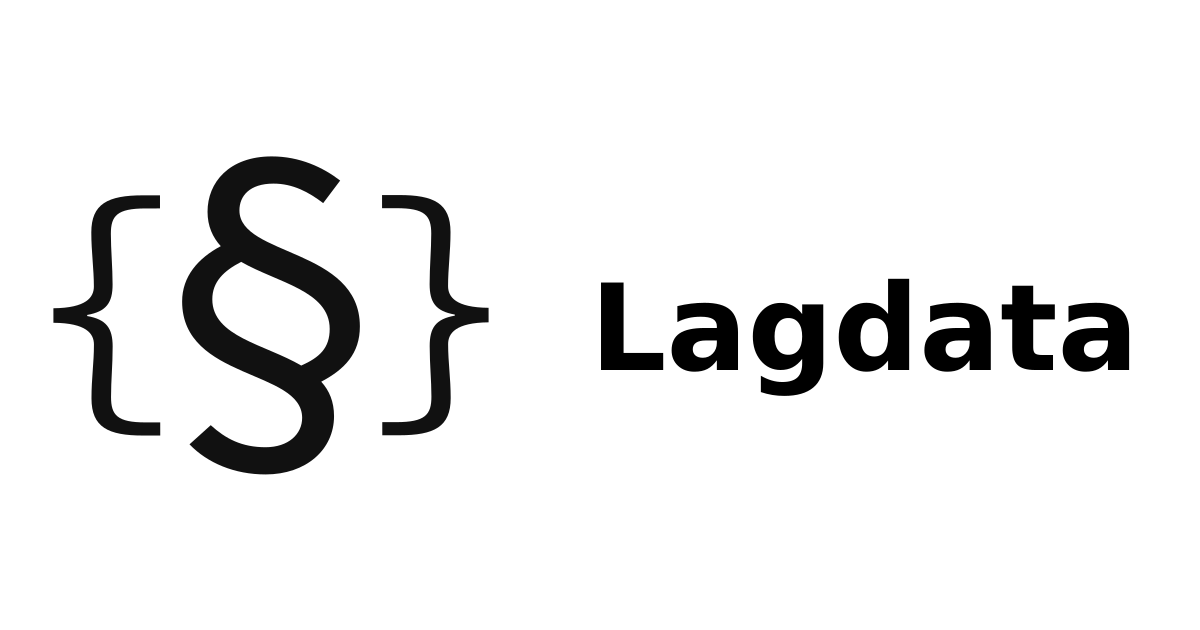
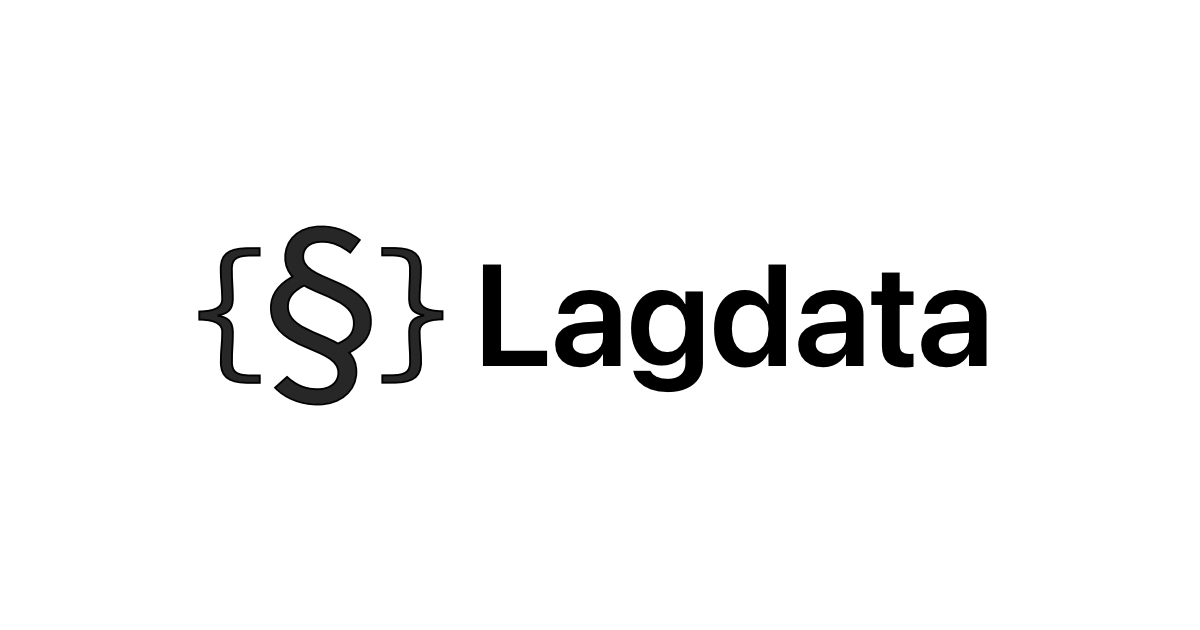
Optimise images

Changed region(s): [[0.0308, 0.2413, 0.9558, 0.754]]

diff --git a/content/posts/rinfo/index.en.md b/content/posts/rinfo/index.en.md
@@ -12,7 +12,7 @@ tags:
 
 It is a harsh principle, but it rests on a reasonable premise: anyone who wants to obey the law must also be able to find out what it says. [The Supreme Court of Sweden has put it clearly](https://www.domstol.se/globalassets/filer/domstol/hogstadomstolen/avgoranden/2019/b-6130-18.pdf): if people are expected to know what constitutes a criminal offence, they must also be able to access the rules.
 
-![The Swedish Code of Statutes in print at the Riksdag Library](thumbnail.jpeg "The Swedish Code of Statutes in print at the Riksdag Library (CC BY 4.0 Pierre Mesure)")
+![The Swedish Code of Statutes in print at the Riksdag Library](featured-sfs-riksdagsbiblioteket.webp "The Swedish Code of Statutes in print at the Riksdag Library (CC BY 4.0 Pierre Mesure)")
 
 Today, access to the law no longer means access to a printed statute book. Nearly all access is digital. On top of that, legal information is increasingly read and used by information systems, algorithms or AI-agents.
 
@@ -30,11 +30,11 @@ They often ask the same questions: Where can the information be found? Is there 
 
 Other countries have solved this many years ago. The French project [OpenFisca](https://openfisca.org/) turns large parts of the tax and benefits system into executable, open-source code. The project shows what becomes possible when rules are treated as shared digital infrastructure (*rules as code*), rather than as documents that every organisation must interpret from scratch.
 
-![Screenshot of the French government's “1 jeune 1 solution” website](openfisca.png "Thanks to rules as code, this website promises to show in five minutes whether you meet the eligibility criteria for 1,000 benefits, and to apply for some of them automatically ([link](https://mes-aides.1jeune1solution.beta.gouv.fr)).")
+![Screenshot of the French government's “1 jeune 1 solution” website](openfisca.webp "Thanks to rules as code, this website promises to show in five minutes whether you meet the eligibility criteria for 1,000 benefits, and to apply for some of them automatically ([link](https://mes-aides.1jeune1solution.beta.gouv.fr)).")
 
 Another way to compare Sweden internationally is to look at the EU initiative [European Legislation Identifier (ELI)](https://eur-lex.europa.eu/eli-register/what_is_eli.html). Sweden finally joined in 2024, but we have yet to start publishing data because we lack the necessary data infrastructure. Denmark, [Finland](https://eur-lex.europa.eu/eli-register/finland.html) and [Norway](https://eur-lex.europa.eu/eli-register/norway.html) already use ELI to give legal information persistent identifiers and structured metadata.
 
-![Countries implementing ELI; Sweden is one of the few EU countries that does not](eli.png "Source: [EUR-Lex](https://eur-lex.europa.eu/eli-register/implementing_countries.html)")
+![Countries implementing ELI; Sweden is one of the few EU countries that does not](eli.webp "Source: [EUR-Lex](https://eur-lex.europa.eu/eli-register/implementing_countries.html)")
 
 ## A legal information system made up mostly of links
 
@@ -54,7 +54,7 @@ For over fifteen years, the Riksdag has published extensive open data, largely t
 
 The worst part is that we know what needs to be done. Around 2010, the Swedish National Courts Administration (*Domstolsverket*) already ran the Rinfo project to create a modern legal information system. The project developed common URIs, a document model and RDF-based metadata. The authority even recruited Staffan Malmgren, who created [lagen.nu](https://lagen.nu) and has long been one of Sweden's foremost experts on digital legal information.
 
-![A slide from the Rinfo project showing screenshots of public authorities’ regulatory pages](rinfo_slide.png "Source: [Swedish National Courts Administration](https://www.slideshare.net/slideshow/rttsinformationssystemet/5903008)")
+![A slide from the Rinfo project showing screenshots of public authorities’ regulatory pages](rinfo_slide.webp "Source: [Swedish National Courts Administration](https://www.slideshare.net/slideshow/rttsinformationssystemet/5903008)")
 
 But the project remained an impressive prototype, and the decisions needed for broad implementation never came.
 

diff --git a/content/posts/rinfo/index.sv.md b/content/posts/rinfo/index.sv.md
@@ -12,7 +12,7 @@ tags:
 
 Det är en hård princip, men den bygger på en rimlig förutsättning: den som vill följa lagen måste också ha möjlighet att ta reda på vad den säger. [Högsta domstolen har uttryckt det tydligt](https://www.domstol.se/globalassets/filer/domstol/hogstadomstolen/avgoranden/2019/b-6130-18.pdf): om människor förutsätts känna till vad som är straffbart måste de också kunna ta del av regleringen.
 
-![Svensk författningssamling i tryckt format på Riksdagsbiblioteket](thumbnail.jpeg "Svensk författningssamling i tryckt format på Riksdagsbiblioteket (CC-BY 4.0 Pierre Mesure)")
+![Svensk författningssamling i tryckt format på Riksdagsbiblioteket](featured-sfs-riksdagsbiblioteket.webp "Svensk författningssamling i tryckt format på Riksdagsbiblioteket (CC-BY 4.0 Pierre Mesure)")
 
 I dag betyder tillgång till lagen inte längre tillgång till en tryckt lagbok. Nästan all åtkomst är digital. Dessutom är det allt oftare inte en människa som först läser rättsinformationen, utan ett informationssystem, en algoritm eller en AI-agent.
 
@@ -30,11 +30,11 @@ De frågar ofta om samma sak: Var finns informationen? Finns det ett API? Går d
 
 I andra länder har man gått betydligt längre. Det franska projektet [OpenFisca](https://openfisca.org/) gör stora delar av skatte- och bidragssystemet till körbar, öppen kod. Projektet visar vad som blir möjligt när regler behandlas som gemensam digital infrastruktur (*rules as code*) i stället för som dokument som varje aktör måste tolka på nytt.
 
-![Skärmdump av franska regeringens webbsida "1 jeune 1 solution"](openfisca.png "Tack vare regler som kod lovar denna webbsida att visa om man uppfyller kriterierna för 1000 bidrag på 5 minuter, och att kunna söka vissa automatiskt ([länk](https://mes-aides.1jeune1solution.beta.gouv.fr)).")
+![Skärmdump av franska regeringens webbsida "1 jeune 1 solution"](openfisca.webp "Tack vare regler som kod lovar denna webbsida att visa om man uppfyller kriterierna för 1000 bidrag på 5 minuter, och att kunna söka vissa automatiskt ([länk](https://mes-aides.1jeune1solution.beta.gouv.fr)).")
 
 Ett annat sätt att jämföra oss internationellt är att se på EU-samarbetet [European Legislation Identifier, ELI](https://eur-lex.europa.eu/eli-register/what_is_eli.html) Sverige anslöt sig äntligen 2024 men vi har fortfarande inte börjat publicerar data eftersom vi saknar datainfrastrukturen för det. Danmark, [Finland](https://eur-lex.europa.eu/eli-register/finland.html) och [Norge](https://eur-lex.europa.eu/eli-register/norway.html) använder redan ELI för att ge rättsinformation beständiga identifierare och strukturerade metadata.
 
-![Länder som implementerar ELI, Sverige är ett av få EU-länder som inte gör det](eli.png "Källa: [EUR-lex](https://eur-lex.europa.eu/eli-register/implementing_countries.html)")
+![Länder som implementerar ELI, Sverige är ett av få EU-länder som inte gör det](eli.webp "Källa: [EUR-lex](https://eur-lex.europa.eu/eli-register/implementing_countries.html)")
 
 ## Ett rättsinformationssystem som mest består av länkar
 
@@ -54,7 +54,7 @@ Riksdagen har i omkring femton år publicerat omfattande öppna data, mycket tac
 
 Det saknas inte kunskap om hur problemet kan lösas. Omkring 2010 drev Domstolsverket Rinfo-projektet för att skapa ett modernt rättsinformationssystem. Projektet tog fram gemensamma URI:er, en dokumentmodell och RDF-baserade metadata. Myndigheten rekryterade till och med Staffan Malmgren, som skapade [lagen.nu](https://lagen.nu) och länge varit en av Sveriges mest kunniga personer inom digital rättsinformation.
 
-![En slide från Rinfo-projektet med skärmdumpar från myndigheters föreskriftssidor](rinfo_slide.png "Källa: [Domstolsverket](https://www.slideshare.net/slideshow/rttsinformationssystemet/5903008)")
+![En slide från Rinfo-projektet med skärmdumpar från myndigheters föreskriftssidor](rinfo_slide.webp "Källa: [Domstolsverket](https://www.slideshare.net/slideshow/rttsinformationssystemet/5903008)")
 
 Men projektet blev som mest en fin prototyp och beslutet saknades för att implementera det brett.
 
